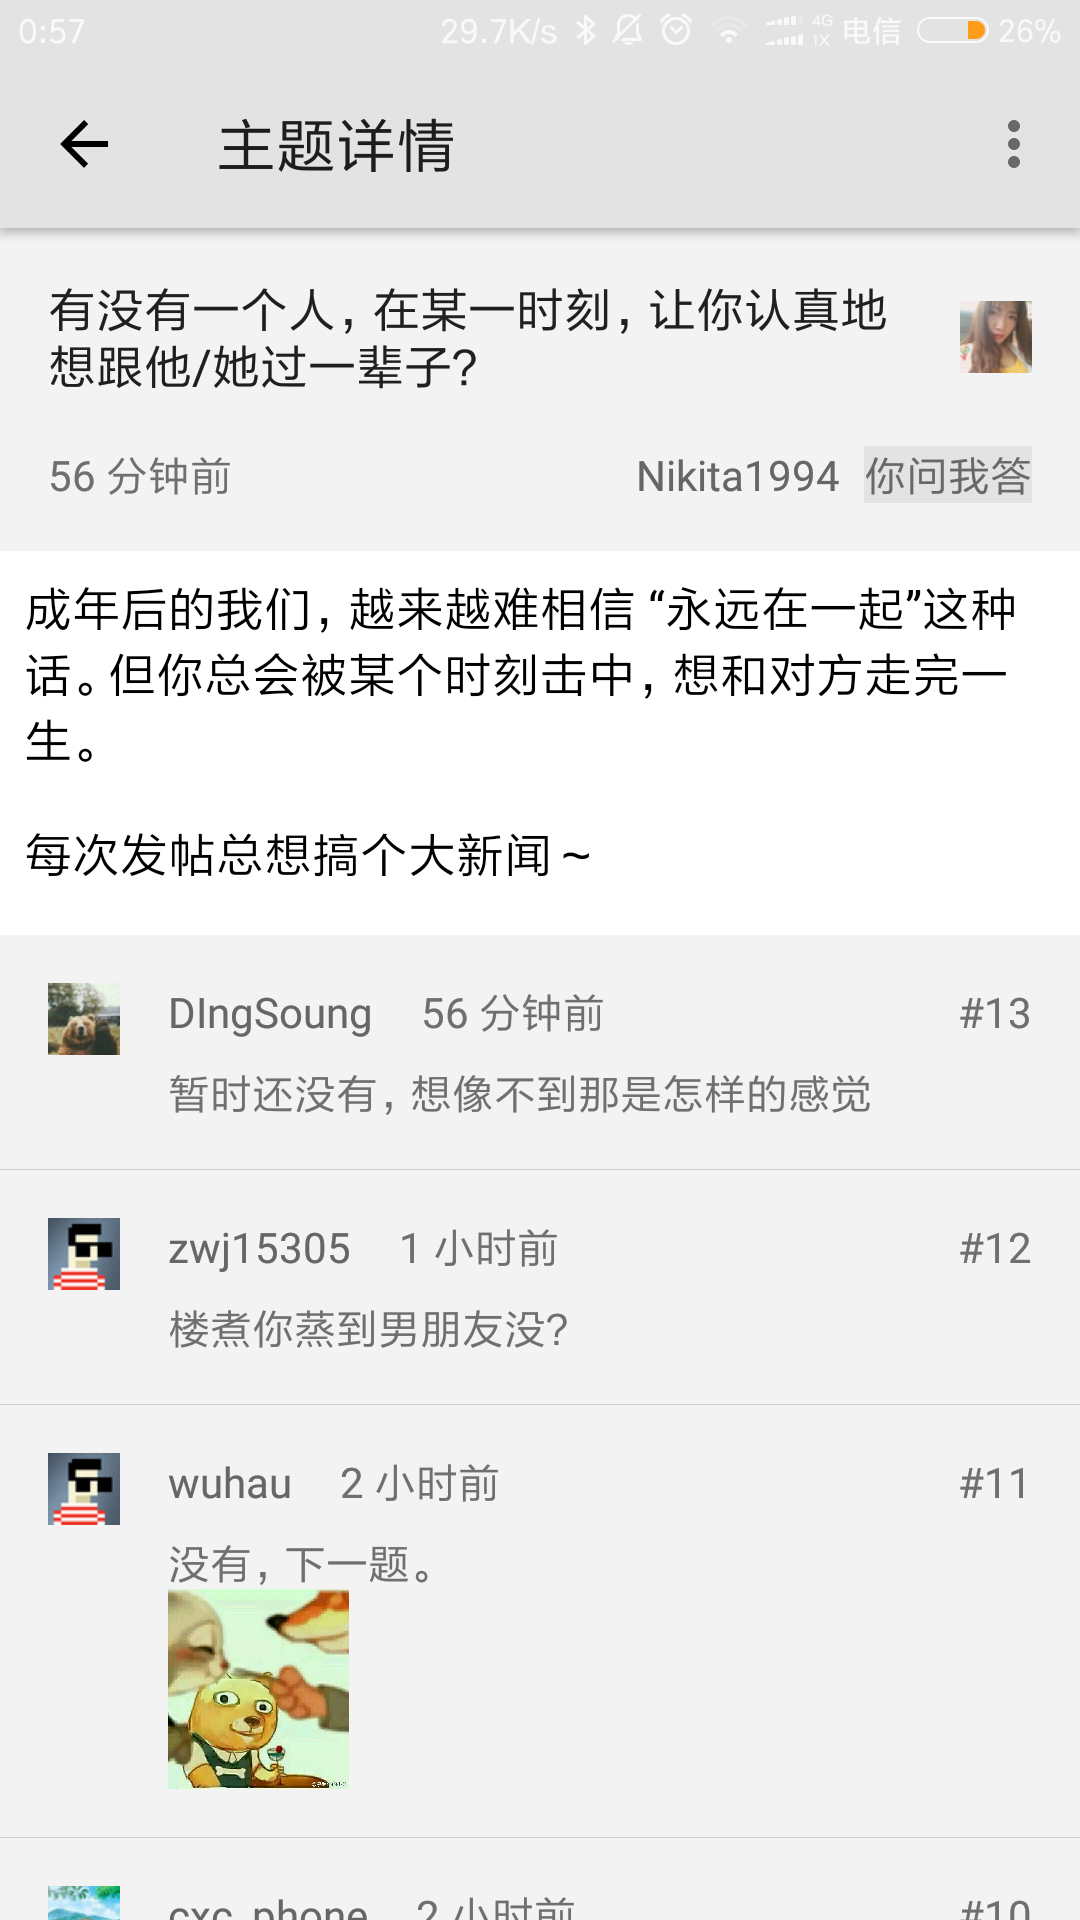
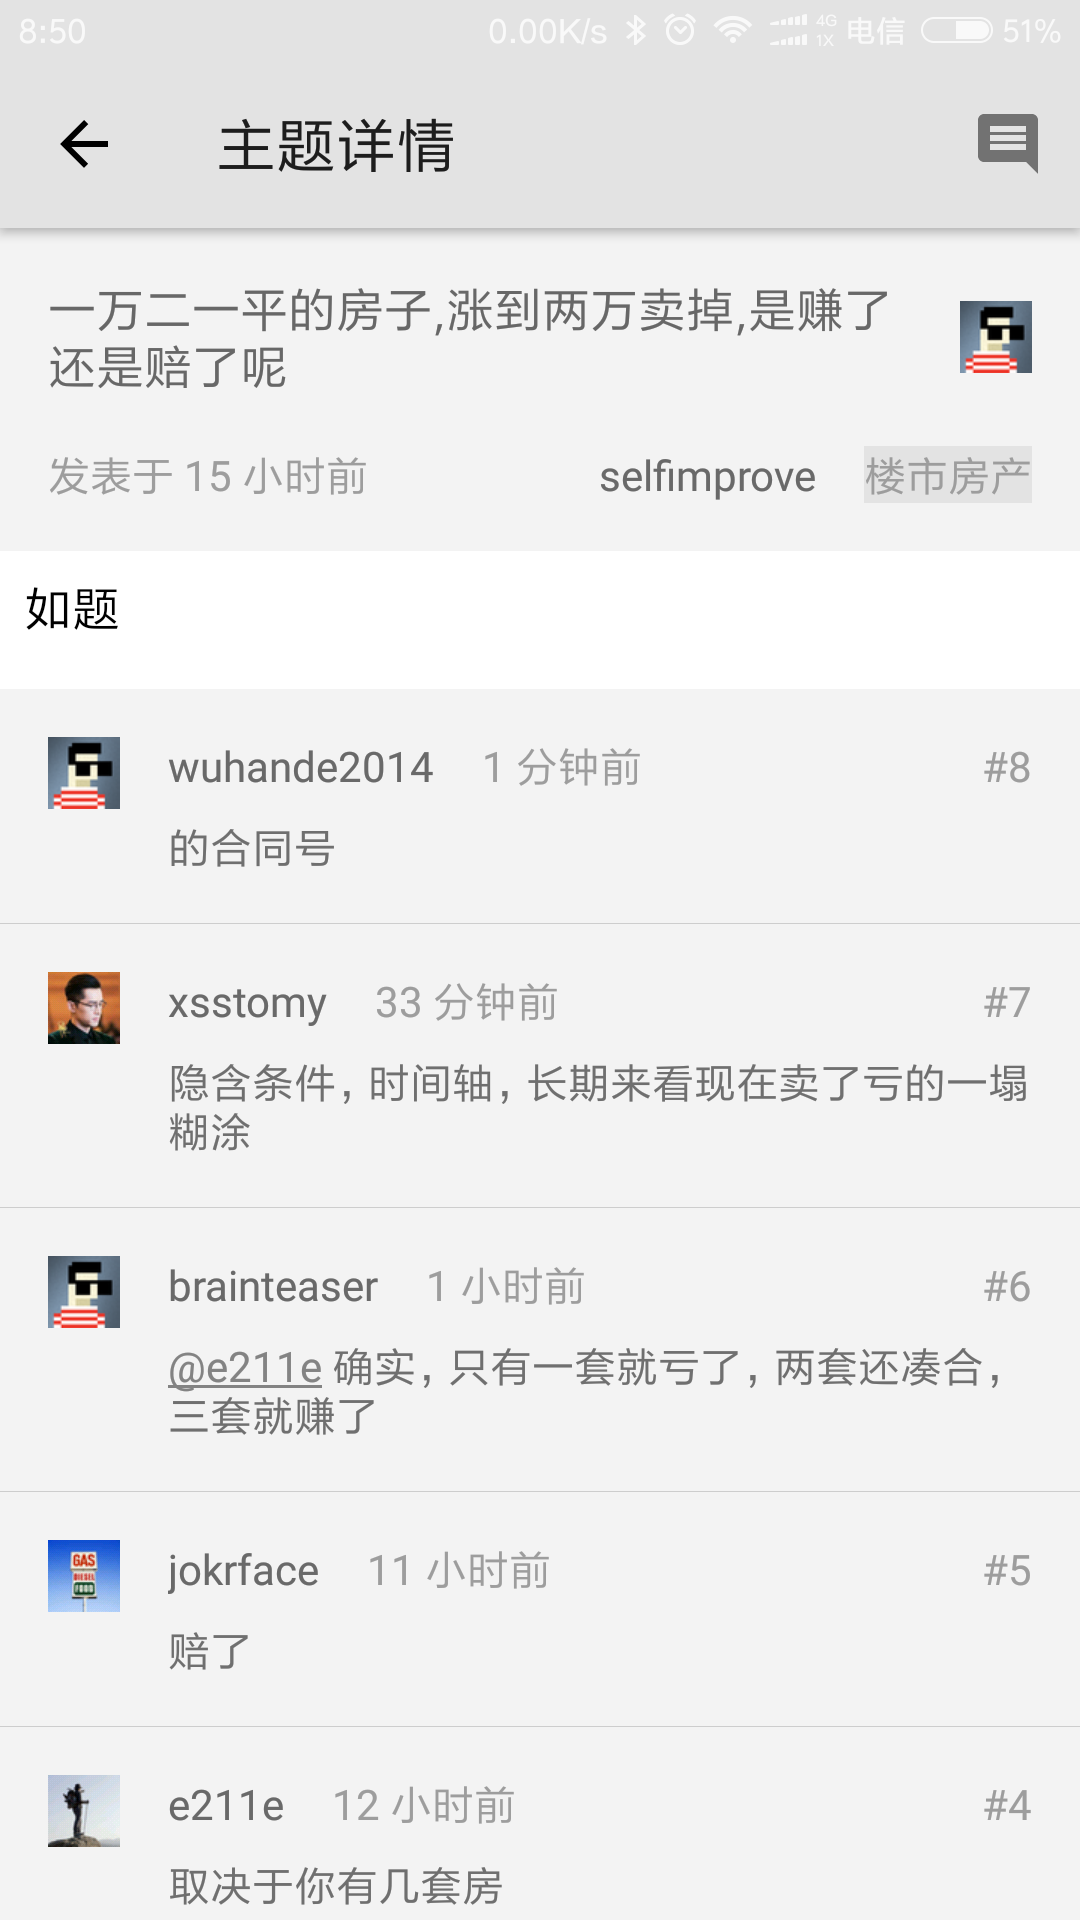
Update screenshots

diff --git a/README.md b/README.md
@@ -4,6 +4,7 @@
 
 **目录**
 <!-- vim-markdown-toc GFM -->
+
 * [屏幕截图](#屏幕截图)
 * [功能列表](#功能列表)
 * [界面特性](#界面特性)
@@ -40,15 +41,16 @@
 ## 界面特性
 
 - [x] 主题详情支持动图和视频
-- [ ] ToolBar 设定
+- [x] ToolBar 设定
     - [x] 如果当前 Fragment 栈里的数量大于 1，就显示返回按钮，可以滑出 Drawer，否则显示菜单，锁定 Drawer
-    - [ ] 在合适的时候显示右侧菜单
+    - [x] 在合适的时候显示右侧菜单
 - [ ] 列表下拉刷新
 - [x] 列表上滑加载更多
     - [x] 主题列表页自动加载
     - [x] 主题评论点击手动加载
 - [ ] Loading 动画
 - [ ] 应用内处理图片与链接点开
+- [ ] 评论内容为空时评论按钮置灰
 
 ## API
 
